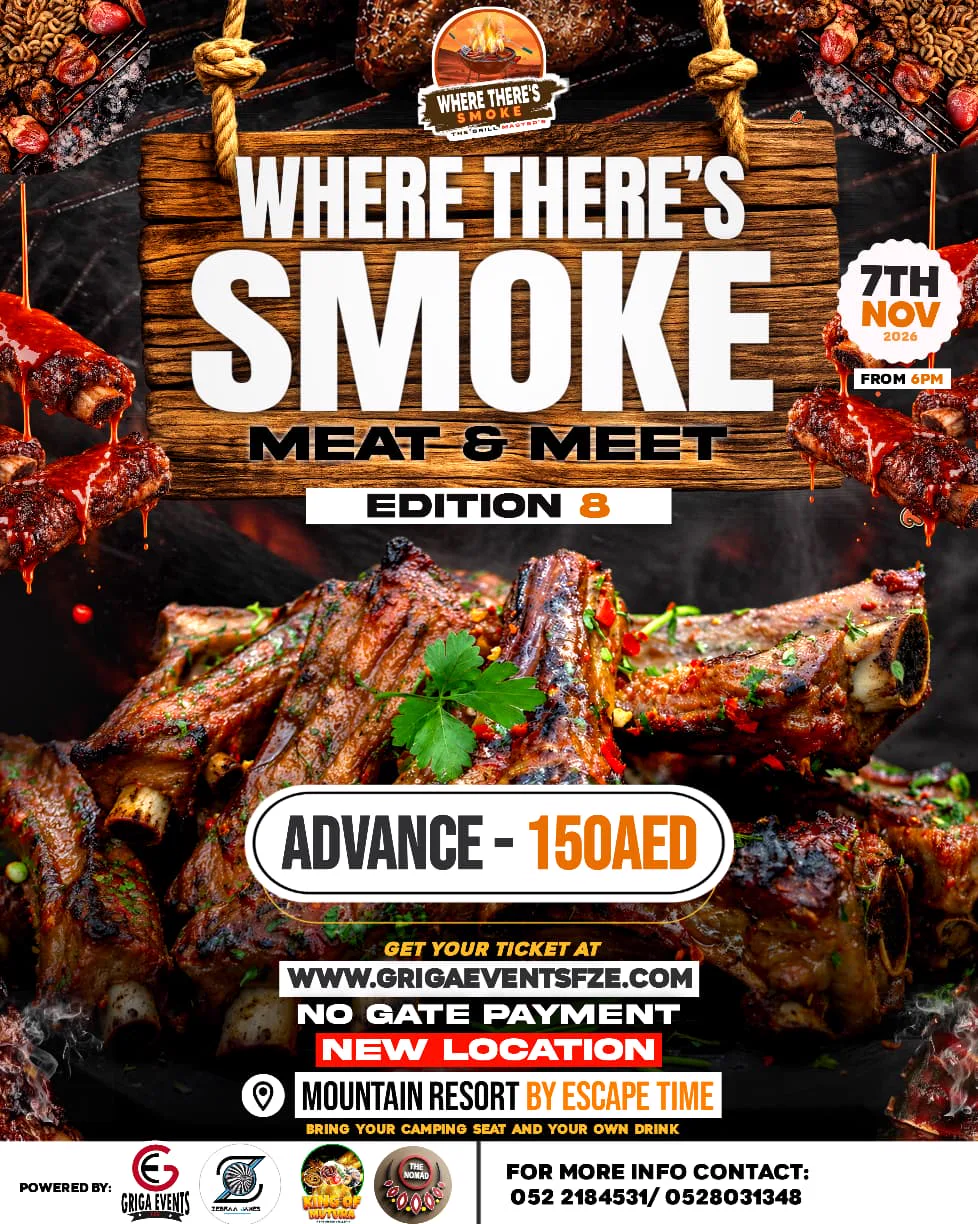
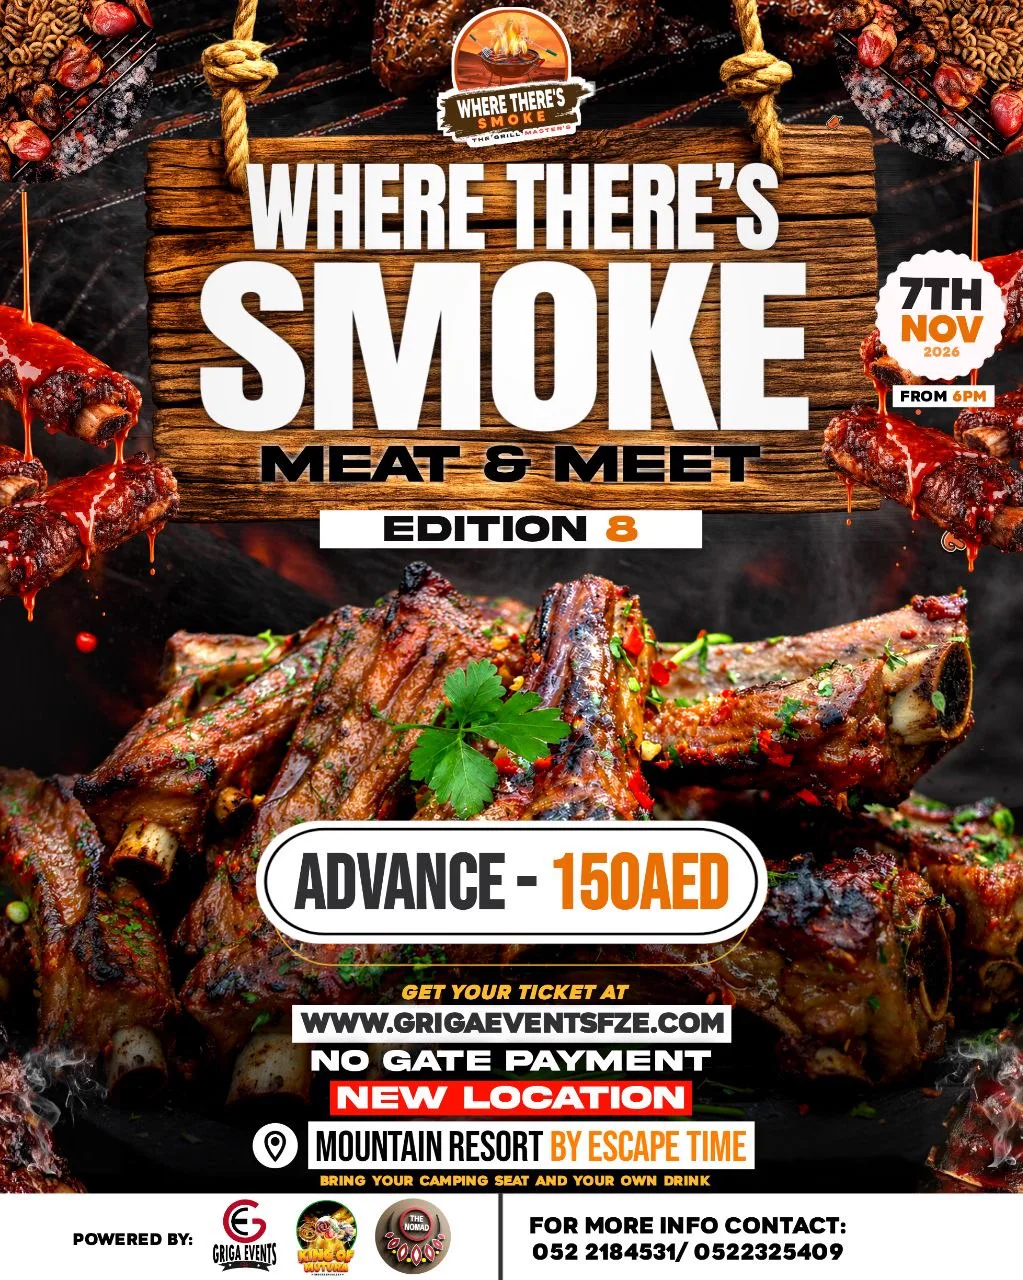
Remove Zebraa James and show the updated Edition 8 flyer with the remaining partners.

diff --git a/home.html b/home.html
@@ -15,16 +15,16 @@
   <meta property="og:description" content="Creating the UAE's most memorable experiences. Get tickets for Where There's Smoke Edition 8 — Saturday 7 November 2026 at MOUNTAIN RESORT BY ESCAPE TIME, Isfini Street, Fujairah." />
   <meta property="og:url" content="https://grigaeventsfze.com/" />
   <meta property="og:site_name" content="GRIGA Events FZE" />
-  <meta property="og:image" content="https://grigaeventsfze.com/assets/media/images/where there's smoke edition 8.jpeg?v=20261007" />
+  <meta property="og:image" content="https://grigaeventsfze.com/assets/media/images/where there's smoke edition 8.jpeg?v=20261027" />
   <meta name="twitter:card" content="summary_large_image" />
   <meta name="twitter:title" content="GRIGA Events FZE | Experience Dubai's Premier Events" />
   <meta name="twitter:description" content="Creating the UAE's most memorable experiences. Get tickets for Where There's Smoke Edition 8 — Saturday 7 November 2026 at MOUNTAIN RESORT BY ESCAPE TIME, Isfini Street, Fujairah." />
-  <meta name="twitter:image" content="https://grigaeventsfze.com/assets/media/images/where there's smoke edition 8.jpeg?v=20261007" />
+  <meta name="twitter:image" content="https://grigaeventsfze.com/assets/media/images/where there's smoke edition 8.jpeg?v=20261027" />
   <link rel="preconnect" href="https://unpkg.com" crossorigin />
   <link rel="stylesheet" href="https://unpkg.com/aos@2.3.4/dist/aos.css" />
   <link rel="stylesheet" href="https://unpkg.com/swiper@9/swiper-bundle.min.css" />
-  <link rel="stylesheet" href="assets/css/style.css?v=20261014.3" />
-  <link rel="preload" as="image" href="assets/media/images/where there's smoke edition 8.webp?v=20261007" fetchpriority="high" />
+  <link rel="stylesheet" href="assets/css/style.css?v=20261027.7" />
+  <link rel="preload" as="image" href="assets/media/images/where there's smoke edition 8.webp?v=20261027" fetchpriority="high" />
   <link rel="icon" href="assets/media/logos/fav.jpg" type="image/jpeg" />
 </head>
 <body>
@@ -59,7 +59,7 @@
   <!-- Hero -->
   <section class="hero" id="top">
     <div class="hero-poster" aria-hidden="true"></div>
-    <video class="hero-video" autoplay muted loop playsinline preload="none" poster="assets/media/images/where there's smoke edition 8.webp?v=20261007" data-src="assets/media/videos/hero-bg-optimized.mp4" data-fallback="assets/media/videos/hero-bg.mp4">
+    <video class="hero-video" autoplay muted loop playsinline preload="none" poster="assets/media/images/where there's smoke edition 8.webp?v=20261027" data-src="assets/media/videos/hero-bg-optimized.mp4" data-fallback="assets/media/videos/hero-bg.mp4">
       <!-- Source is injected on load; the video fades in once it can play smoothly. -->
     </video>
     <div class="hero-bg-layer hero-bg-overlay"></div>
@@ -129,8 +129,8 @@
               <div class="event-poster">
                 <div class="event-poster-frame">
                   <picture>
-                    <source srcset="assets/media/images/where%20there's%20smoke%20edition%208.webp?v=20261007" type="image/webp" />
-                    <img src="assets/media/images/where there's smoke edition 8.jpeg?v=20261007" alt="Where There's Smoke Edition 8 poster" width="978" height="1224" loading="lazy" decoding="async" />
+                    <source srcset="assets/media/images/where%20there's%20smoke%20edition%208.webp?v=20261027" type="image/webp" />
+                    <img src="assets/media/images/where there's smoke edition 8.jpeg?v=20261027" alt="Where There's Smoke Edition 8 poster" width="1023" height="1280" loading="lazy" decoding="async" />
                   </picture>
                   <span class="sold-out-badge" aria-hidden="true">
                     <span class="sold-out-badge-fill"></span>
@@ -189,23 +189,22 @@
   </section>
 
   <!-- Sponsors -->
-  <section class="section" id="partners">
+  <section class="section partners-band" id="partners">
     <div class="container">
       <header class="section-header" data-aos="fade-up">
         <h2>In Partnership With</h2>
       </header>
-      <div class="partners-marquee" data-aos="fade-up">
-        <div class="partners-track">
-          <div class="partner-logo">
-            <img src="/assets/media/logos/where-theres-smoke.png" alt="Where There's Smoke logo" />
-          </div>
-          <div class="partner-logo">
-            <img src="assets/media/logos/zebraa-james.png" alt="Zebraa James logo" />
-          </div>
-          <div class="partner-logo">
-            <img src="assets/media/logos/king-of-mutura.png" alt="King of Mutura logo" />
-          </div>
-        </div>
+      <div class="partner-cards" data-aos="fade-up">
+        <article class="partner-card">
+          <img src="assets/media/logos/where-theres-smoke.png" alt="Where There's Smoke logo" />
+          <h3>Where There's Smoke UAE</h3>
+          <p>Grill Masters</p>
+        </article>
+        <article class="partner-card">
+          <img class="partner-logo-mutura" src="assets/media/logos/king-of-mutura.png" alt="King of Mutura logo" />
+          <h3>King of Mutura</h3>
+          <p>The Green Valley</p>
+        </article>
       </div>
     </div>
   </section>

diff --git a/events.html b/events.html
@@ -11,11 +11,11 @@
   <meta property="og:title" content="WHERE THERE'S SMOKE 8TH EDITION | GRIGA Events FZE" />
   <meta property="og:description" content="Experience Where There's Smoke 8th Edition on 7 November 2026 from dusk until dawn at MOUNTAIN RESORT BY ESCAPE TIME, Isfini Street, Fujairah. Advance tickets available now." />
   <meta property="og:url" content="https://grigaeventsfze.com/events.html" />
-  <meta property="og:image" content="https://grigaeventsfze.com/assets/media/images/where there's smoke edition 8.jpeg?v=20261007" />
+  <meta property="og:image" content="https://grigaeventsfze.com/assets/media/images/where there's smoke edition 8.jpeg?v=20261027" />
   <meta property="og:site_name" content="GRIGA Events FZE" />
   <link rel="stylesheet" href="https://unpkg.com/aos@2.3.4/dist/aos.css" />
   <link rel="stylesheet" href="assets/css/style.css?v=20261007.1" />
-  <link rel="stylesheet" href="assets/css/events.css?v=20261007.1" />
+  <link rel="stylesheet" href="assets/css/events.css?v=20261027.1" />
   <link rel="icon" href="assets/media/logos/fav.jpg" type="image/jpeg" />
 </head>
 <body>
@@ -48,7 +48,7 @@
 
   <main>
     <section id="top" class="hero-section" data-aos="fade-up">
-      <div class="hero-media" aria-hidden="true" style="background-image: url('assets/media/images/where there\'s smoke edition 8.jpeg?v=20261007');"></div>
+      <div class="hero-media" aria-hidden="true" style="background-image: url('assets/media/images/where there\'s smoke edition 8.jpeg?v=20261027');"></div>
       <div class="hero-overlay"></div>
       <div class="hero-content container">
         <p class="eyebrow">7 November 2026 · 6:00 PM Till Dawn · MOUNTAIN RESORT BY ESCAPE TIME, Isfini Street, Fujairah</p>
@@ -117,7 +117,7 @@
           <h2>Official Flyer</h2>
         </header>
         <div class="flyer-frame">
-          <img src="assets/media/images/where there's smoke edition 8.jpeg?v=20261007" alt="Where There's Smoke Edition 8 poster" />
+          <img src="assets/media/images/where there's smoke edition 8.jpeg?v=20261027" alt="Where There's Smoke Edition 8 poster" />
         </div>
       </div>
     </section>
@@ -146,7 +146,6 @@
         <div class="powered-grid">
           <div class="powered-logo">GRIGA Events FZE</div>
           <div class="powered-logo">Where There’s Smoke UAE</div>
-          <div class="powered-logo">Zebraa James</div>
           <div class="powered-logo">King Of Mutura</div>
           <div class="powered-logo">The Nomad</div>
         </div>
@@ -203,7 +202,7 @@
         }
       },
         "image": [
-        "https://grigaeventsfze.com/assets/media/images/where there's smoke edition 8.jpeg?v=20261007"
+        "https://grigaeventsfze.com/assets/media/images/where there's smoke edition 8.jpeg?v=20261027"
       ],
       "description": "Where There's Smoke 8th Edition is a premier meat festival featuring nyama choma, live music, and great vibes.",
       "offers": {

diff --git a/assets/css/style.css b/assets/css/style.css
@@ -386,7 +386,7 @@ p {
   inset: 0;
   z-index: 0;
   background-image: linear-gradient(120deg, rgba(0, 0, 0, 0.25), rgba(0, 0, 0, 0.1)),
-    url("../media/images/where there's smoke edition 8.webp?v=20261007");
+    url("../media/images/where there's smoke edition 8.webp?v=20261027");
   background-size: cover;
   background-position: center;
 }
@@ -886,39 +886,101 @@ p {
   font-size: 14px;
 }
 
-/* Partners marquee */
+/* Partnership cards */
 
-.partners-marquee {
-  overflow: hidden;
-  border-radius: 16px;
-  border: 1px solid #eee;
-  background: #fafafa;
-  padding: 12px 20px;
+.partners-band {
+  background: var(--color-white);
 }
 
-.partners-track {
+.partners-band .section-header {
+  margin-bottom: 1.5rem;
+}
+
+.partners-band .section-header h2 {
+  color: var(--color-black);
+}
+
+.partner-cards {
   display: flex;
-  gap: 18px;
+  flex-wrap: wrap;
   justify-content: center;
-  align-items: center;
-  animation: marquee 22s linear infinite;
+  gap: 1.25rem;
 }
 
-.partner-logo {
-  min-width: 80px;
+.partner-card {
+  flex: 1 1 200px;
+  max-width: 240px;
+  box-sizing: border-box;
+  display: flex;
+  flex-direction: column;
+  align-items: center;
   text-align: center;
-  font-weight: 600;
-  color: #666;
-  display: flex;
-  align-items: center;
-  justify-content: center;
+  gap: 0.45rem;
+  padding: 1.35rem 1rem 1.15rem;
+  border: 1px solid rgba(0, 0, 0, 0.08);
+  border-radius: 18px;
+  background: var(--color-white);
+  box-shadow: var(--shadow-soft);
 }
 
-.partner-logo img {
-  max-width: 120px;
-  max-height: 48px;
+.partner-card img {
+  width: 100px;
+  height: 100px;
   object-fit: contain;
-  filter: saturate(0.9);
+  border-radius: 0;
+}
+
+.partner-card img.partner-logo-mutura {
+  width: 124px;
+  height: 124px;
+}
+
+.partner-card h3 {
+  margin: 0.35rem 0 0;
+  color: var(--color-black);
+  font-size: 0.92rem;
+  font-weight: 700;
+  letter-spacing: 0.04em;
+  text-transform: uppercase;
+  line-height: 1.25;
+}
+
+.partner-card p {
+  margin: 0;
+  color: var(--color-black-soft);
+  font-size: 0.85rem;
+  line-height: 1.3;
+}
+
+
+@media (max-width: 640px) {
+  .partner-cards {
+    gap: 0.75rem;
+  }
+
+  .partner-card {
+    flex: 1 1 calc(50% - 0.75rem);
+    max-width: none;
+    padding: 1rem 0.55rem 0.9rem;
+  }
+
+  .partner-card img {
+    width: 77px;
+    height: 77px;
+  }
+
+  .partner-card img.partner-logo-mutura {
+    width: 96px;
+    height: 96px;
+  }
+
+  .partner-card h3 {
+    font-size: 0.72rem;
+  }
+
+  .partner-card p {
+    font-size: 0.68rem;
+  }
 }
 .event-card {
   background: var(--color-white);

diff --git a/tickets.html b/tickets.html
@@ -10,11 +10,11 @@
   <meta property="og:description" content="Secure your tickets for Where There's Smoke Edition 8 on 7 November 2026 at MOUNTAIN RESORT BY ESCAPE TIME, Isfini Street, Fujairah." />
   <meta property="og:url" content="https://grigaeventsfze.com/tickets.html" />
   <meta property="og:site_name" content="GRIGA Events FZE" />
-  <meta property="og:image" content="https://grigaeventsfze.com/assets/media/images/where there's smoke edition 8.jpeg?v=20261007" />
+  <meta property="og:image" content="https://grigaeventsfze.com/assets/media/images/where there's smoke edition 8.jpeg?v=20261027" />
   <link rel="canonical" href="https://grigaeventsfze.com/tickets.html" />
   <link rel="stylesheet" href="https://unpkg.com/aos@2.3.4/dist/aos.css" />
   <link rel="stylesheet" href="assets/css/style.css?v=20261007.1" />
-  <link rel="stylesheet" href="assets/css/tickets.css?v=20261021.1" />
+  <link rel="stylesheet" href="assets/css/tickets.css?v=20261027.1" />
   <link rel="stylesheet" href="assets/css/shop.css?v=20261021.1" />
   <link rel="icon" href="assets/media/logos/fav.jpg" type="image/jpeg" />
 </head>
@@ -300,7 +300,7 @@
       }
     },
     "image": [
-      "https://grigaeventsfze.com/assets/media/images/where there's smoke edition 8.jpeg?v=20261007"
+      "https://grigaeventsfze.com/assets/media/images/where there's smoke edition 8.jpeg?v=20261027"
     ],
     "description": "Premium Where There's Smoke Edition 8 hospitality with nyama choma, live music, and great vibes at MOUNTAIN RESORT BY ESCAPE TIME, Isfini Street, Fujairah.",
     "offers": {

diff --git a/assets/css/tickets.css b/assets/css/tickets.css
@@ -17,7 +17,7 @@ body.tickets-body {
   justify-content: center;
   text-align: center;
   overflow: hidden;
-  background-image: linear-gradient(135deg, rgba(209, 31, 38, 0.85), rgba(0, 0, 0, 0.9)), url("../media/images/where there's smoke edition 8.jpeg?v=20261007");
+  background-image: linear-gradient(135deg, rgba(209, 31, 38, 0.85), rgba(0, 0, 0, 0.9)), url("../media/images/where there's smoke edition 8.jpeg?v=20261027");
   background-size: cover;
   background-position: center;
 }

diff --git a/assets/css/events.css b/assets/css/events.css
@@ -52,7 +52,7 @@ a {
 .hero-media {
   position: absolute;
   inset: 0;
-  background-image: linear-gradient(180deg, rgba(0, 0, 0, 0.35), rgba(0, 0, 0, 0.8)), url("../media/images/where there's smoke edition 8.jpeg?v=20261007");
+  background-image: linear-gradient(180deg, rgba(0, 0, 0, 0.35), rgba(0, 0, 0, 0.8)), url("../media/images/where there's smoke edition 8.jpeg?v=20261027");
   background-size: cover;
   background-position: center;
   filter: saturate(1.1);
